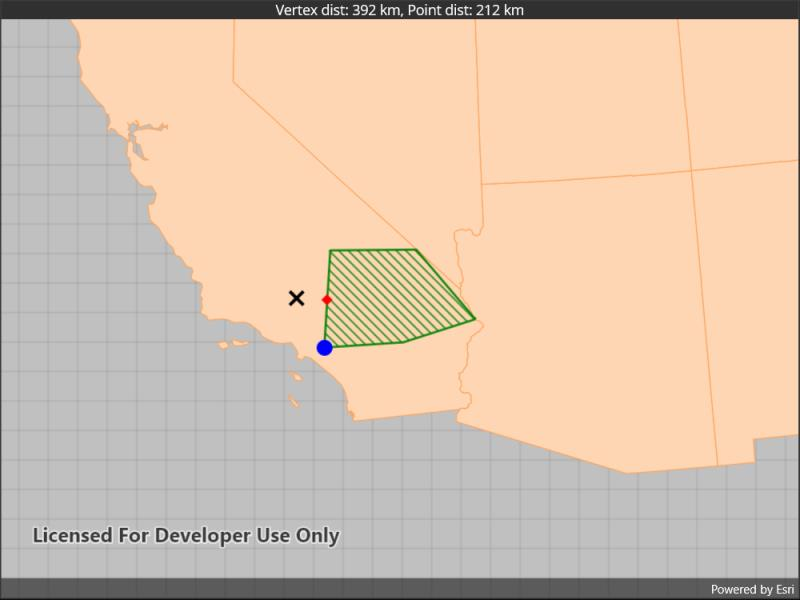
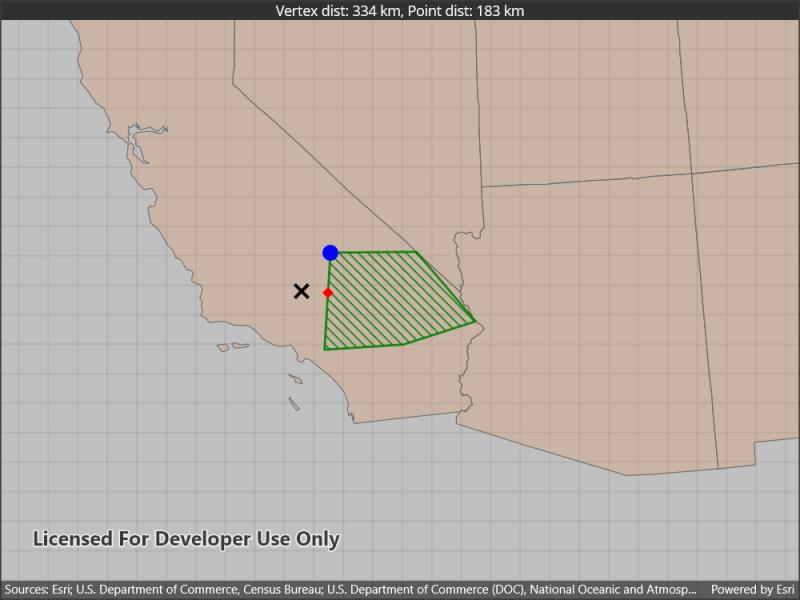
Update portal item and screenshots

diff --git a/src/WinUI/ArcGIS.WinUI.Viewer/Samples/Geometry/NearestVertex/NearestVertex.xaml.cs b/src/WinUI/ArcGIS.WinUI.Viewer/Samples/Geometry/NearestVertex/NearestVertex.xaml.cs
@@ -9,10 +9,11 @@
 
 using Esri.ArcGISRuntime.Geometry;
 using Esri.ArcGISRuntime.Mapping;
+using Esri.ArcGISRuntime.Portal;
 using Esri.ArcGISRuntime.Symbology;
 using Esri.ArcGISRuntime.UI;
 using Esri.ArcGISRuntime.UI.Controls;
-using System;
+using System.Threading.Tasks;
 
 namespace ArcGIS.WinUI.Samples.NearestVertex
 {
@@ -22,6 +23,7 @@ namespace ArcGIS.WinUI.Samples.NearestVertex
         description: "Find the closest vertex and coordinate of a geometry to a point.",
         instructions: "Click anywhere on the map. An orange cross will show at that location. A blue circle will show the polygon's nearest vertex to the point that was clicked. A red diamond will appear at the coordinate on the geometry that is nearest to the point that was clicked. If clicked inside the geometry, the red and orange markers will overlap. The information box showing distance between the clicked point and the nearest vertex/coordinate will be updated with every new location clicked.",
         tags: new[] { "analysis", "coordinate", "geometry", "nearest", "proximity", "vertex" })]
+    [ArcGIS.Samples.Shared.Attributes.OfflineData("8c2d6d7df8fa4142b0a1211c8dd66903")]
     public partial class NearestVertex
     {
         // Hold references to the graphics overlay and the polygon graphic.
@@ -38,10 +40,10 @@ namespace ArcGIS.WinUI.Samples.NearestVertex
             InitializeComponent();
 
             // Create the map, set the initial extent, and add the original point graphic.
-            Initialize();
+            _ = Initialize();
         }
 
-        private void Initialize()
+        private async Task Initialize()
         {
             // Planar distances are only accurate for geometries that have a defined projected coordinate system.
             // Create a spatial reference using the California zone 5 (ftUS) state plane coordinate system.
@@ -52,8 +54,9 @@ namespace ArcGIS.WinUI.Samples.NearestVertex
             MyMapView.Map = new Map(californiaZone5SpatialReference);
 
             // Create the feature layer.
-            Uri uriLayerSource = new Uri("https://services.arcgis.com/P3ePLMYs2RVChkJx/arcgis/rest/services/USA_States_Generalized/FeatureServer/0");
-            FeatureLayer usaStatesFeatureLayer = new FeatureLayer(uriLayerSource);
+            ArcGISPortal portal = await ArcGISPortal.CreateAsync();
+            PortalItem portalItem = await PortalItem.CreateAsync(portal, "8c2d6d7df8fa4142b0a1211c8dd66903");
+            FeatureLayer usaStatesFeatureLayer = new FeatureLayer(portalItem);
 
             // Add the feature layer to the MapView.
             MyMapView.Map.OperationalLayers.Add(usaStatesFeatureLayer);

diff --git a/src/WPF/WPF.Viewer/Samples/Geometry/NearestVertex/NearestVertex.xaml.cs b/src/WPF/WPF.Viewer/Samples/Geometry/NearestVertex/NearestVertex.xaml.cs
@@ -9,6 +9,7 @@
 
 using Esri.ArcGISRuntime.Geometry;
 using Esri.ArcGISRuntime.Mapping;
+using Esri.ArcGISRuntime.Portal;
 using Esri.ArcGISRuntime.Symbology;
 using Esri.ArcGISRuntime.UI;
 using Esri.ArcGISRuntime.UI.Controls;
@@ -23,6 +24,7 @@ namespace ArcGIS.WPF.Samples.NearestVertex
         description: "Find the closest vertex and coordinate of a geometry to a point.",
         instructions: "Click anywhere on the map. An orange cross will show at that location. A blue circle will show the polygon's nearest vertex to the point that was clicked. A red diamond will appear at the coordinate on the geometry that is nearest to the point that was clicked. If clicked inside the geometry, the red and orange markers will overlap. The information box showing distance between the clicked point and the nearest vertex/coordinate will be updated with every new location clicked.",
         tags: new[] { "analysis", "coordinate", "geometry", "nearest", "proximity", "vertex" })]
+    [ArcGIS.Samples.Shared.Attributes.OfflineData("8c2d6d7df8fa4142b0a1211c8dd66903")]
     public partial class NearestVertex
     {
         // Hold references to the graphics overlay and the polygon graphic.
@@ -53,8 +55,9 @@ namespace ArcGIS.WPF.Samples.NearestVertex
             MyMapView.Map = new Map(californiaZone5SpatialReference);
 
             // Create the feature layer.
-            Uri uriLayerSource = new Uri("https://services.arcgis.com/P3ePLMYs2RVChkJx/arcgis/rest/services/USA_States_Generalized/FeatureServer/0");
-            FeatureLayer usaStatesFeatureLayer = new FeatureLayer(uriLayerSource);
+            ArcGISPortal portal = await ArcGISPortal.CreateAsync();
+            PortalItem portalItem = await PortalItem.CreateAsync(portal, "8c2d6d7df8fa4142b0a1211c8dd66903");
+            FeatureLayer usaStatesFeatureLayer = new FeatureLayer(portalItem);
 
             // Add the feature layer to the MapView.
             MyMapView.Map.OperationalLayers.Add(usaStatesFeatureLayer);

diff --git a/src/MAUI/Maui.Samples/Samples/Geometry/NearestVertex/NearestVertex.xaml.cs b/src/MAUI/Maui.Samples/Samples/Geometry/NearestVertex/NearestVertex.xaml.cs
@@ -23,6 +23,7 @@ namespace ArcGIS.Samples.NearestVertex
         description: "Find the closest vertex and coordinate of a geometry to a point.",
         instructions: "Tap anywhere on the map. An orange cross will show at that location. A blue circle will show the polygon's nearest vertex to the point that was clicked. A red diamond will appear at the coordinate on the geometry that is nearest to the point that was clicked. If tapped inside the geometry, the red and orange markers will overlap. The information box showing distance between the tapped point and the nearest vertex/coordinate will be updated with every new location clicked.",
         tags: new[] { "analysis", "coordinate", "geometry", "nearest", "proximity", "vertex" })]
+    [ArcGIS.Samples.Shared.Attributes.OfflineData("8c2d6d7df8fa4142b0a1211c8dd66903")]
     public partial class NearestVertex
     {
         // Hold references to the graphics overlay and the polygon graphic.
@@ -53,7 +54,7 @@ namespace ArcGIS.Samples.NearestVertex
 
             // Create the feature layer.
             ArcGISPortal portal = await ArcGISPortal.CreateAsync();
-            var portalItem = await PortalItem.CreateAsync(portal, "8c2d6d7df8fa4142b0a1211c8dd66903");
+            PortalItem portalItem = await PortalItem.CreateAsync(portal, "8c2d6d7df8fa4142b0a1211c8dd66903");
             FeatureLayer usaStatesFeatureLayer = new FeatureLayer(portalItem);
 
             // Add the feature layer to the MapView.
